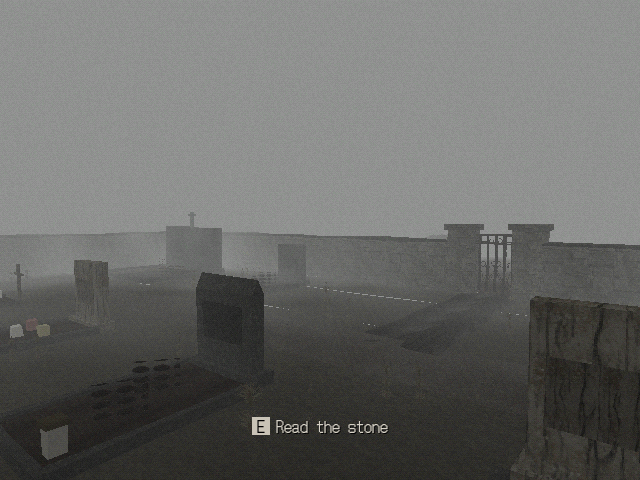
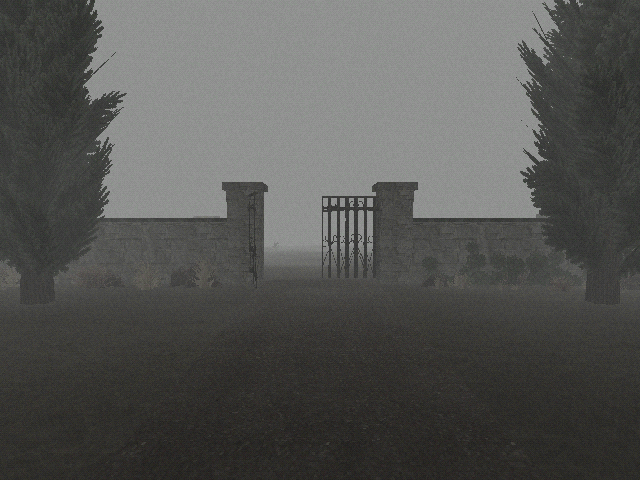
Put ivy on the cemetery wall, yews at its gate and corners, and verges under the hill fences
Spruce within sight of the walls are card models, the rest pictures in the fog.

diff --git a/src/levels/cemetery_path/index.ts b/src/levels/cemetery_path/index.ts
@@ -1,6 +1,7 @@
 import type { Placed } from '../../game/kit/builders';
+import { ivyCover, thicket, VERGE_PLANTS, WILD_PLANTS, yew } from '../../game/kit/foliage';
 import type { LevelKit } from '../../game/kit/levelKit';
-import { scatter } from '../../game/kit/scatter';
+import { scatter, spotsAlong } from '../../game/kit/scatter';
 import { watchmanPatrol } from '../../game/patrol/patrol';
 import { scareDirector } from '../../game/scares/director';
 import { defineScene, type SceneContext } from '../../game/scene';
@@ -69,11 +70,9 @@ export const cemeteryPathScene = defineScene({
       .at(0, 0, 4)
       .walkable('grass');
     gravelPath(kit, path, 1.6, height);
-    barbedWire(
-      kit,
-      path.slice(1, -1).map((p, i) => [p, path[i + 2]!] as Trail).filter((_, i) => i % 2 === 0),
-      1.6,
-    );
+    const fenced = path.slice(1, -1).map((p, i) => [p, path[i + 2]!] as Trail).filter((_, i) => i % 2 === 0);
+    barbedWire(kit, fenced, 1.6);
+    fenceVerges(kit, fenced, 1.9);
 
     meadow(kit);
     church(kit, ctx, night);
@@ -106,8 +105,8 @@ function meadow(kit: LevelKit): void {
   scatter({ x: 0, z: 4, w: 56, d: 100, count: 700, seed: 'hill-tufts', spacing: 0.9, scale: [0.7, 1.4], avoid: offPath }).forEach((spot) =>
     kit.sprite('grass_tuft', { w: 1 * spot.scale!, h: 0.62 * spot.scale! }).color(0x80826a).at(spot.x, -0.04, spot.z).onGround(),
   );
-  kit.trees('bare', scatter({ x: 0, z: 4, w: 60, d: 96, count: 11, seed: 'hill-trees', spacing: 12, avoid: (x, z) => distanceToTrails([path], x, z) < 5 })).collider();
-  kit.trees('spruce', scatter({ x: 0, z: GATE_Z - 6, w: 70, d: 10, count: 26, seed: 'hill-spruce', spacing: 3, scale: [1, 1.4] })).collider();
+  kit.trees('bare', scatter({ x: 0, z: 4, w: 60, d: 96, count: 11, seed: 'hill-trees', spacing: 12, avoid: (x, z) => distanceToTrails([path], x, z) < 5 })).collider().shade(0.12);
+  kit.trees('spruce', scatter({ x: 0, z: GATE_Z - 6, w: 70, d: 10, count: 26, seed: 'hill-spruce', spacing: 3, scale: [1, 1.4] })).collider().shade(0.12);
 }
 
 /** The back of the church at the foot of the path, with the side door the abbé uses. */
@@ -176,8 +175,29 @@ function wayside(kit: LevelKit, ctx: SceneContext, phase: StoryPhase): void {
   });
 }
 
-/** The cemetery wall and gate at the top, seen from below. */
+/**
+ * The strip under the barbed wire the mower never reaches: dead grass and bramble the length of
+ * each fence, and here and there a wild bush grown up round a post.
+ */
+function fenceVerges(kit: LevelKit, legs: Trail[], offset: number): void {
+  const lines = legs.map((leg) => {
+    const [a, b] = [leg[0]!, leg[leg.length - 1]!];
+    const length = Math.hypot(b[0] - a[0], b[1] - a[1]);
+    const [ox, oz] = [(-(b[1] - a[1]) / length) * offset, ((b[0] - a[0]) / length) * offset];
+    return [[a[0] + ox, a[1] + oz], [b[0] + ox, b[1] + oz]] as [number, number][];
+  });
+  const verge = ['a', 'b', 'c'].map((seed) => thicket(`hill-verge-${seed}`, { length: 2.2, depth: 0.8, count: 9, plants: VERGE_PLANTS }));
+  kit.trees(verge, lines.flatMap((line, i) => spotsAlong(line, { step: 1.7, seed: `hill-verge-${i}`, jitter: 0.3, scale: [0.8, 1.25] })));
+  const bushes = ['a', 'b'].map((seed) => thicket(`hill-bush-${seed}`, { length: 1.8, depth: 1.4, count: 5, plants: WILD_PLANTS }));
+  kit.trees(bushes, lines.flatMap((line, i) => spotsAlong(line, { step: 9, seed: `hill-bush-${i}`, jitter: 0.4 })));
+}
+
+/** The cemetery wall and gate at the top, seen from below, ivy on it and a yew each side of the gate. */
 function cemeteryWall(kit: LevelKit): void {
+  const ivy = ['a', 'b'].map((seed) => ivyCover(`hill-wall-${seed}`, { w: 2.6, h: 0.9 }));
+  kit.trees(ivy, [-17, -12.5, -6, 5.5, 9, 14.5].map((x) => ({ x, z: GATE_Z + 0.26, yaw: 0 })));
+  // The same yews the cemetery shows from its own side of the gate.
+  kit.trees([yew('gate-west', { height: 5.4 }), yew('gate-east', { height: 5 })], [{ x: -3.9, z: GATE_Z + 1.8 }, { x: 3.9, z: GATE_Z + 1.8, yaw: 120 }]).collider();
   [-1, 1].forEach((side) => {
     kit.box({ w: 18, h: 1.1, d: 0.5 }).texture('stone_wall', { tile: 1.6 }).color(0x8c8a82).at(side * 10.6, -0.1, GATE_Z).onGround().collider();
     kit.box({ w: 0.55, h: 1.65, d: 0.6 }).texture('stone_wall', { tile: 1 }).color(0x96938a).at(side * 1.6, -0.1, GATE_Z).onGround().collider();

diff --git a/src/levels/cemetery/greenery.ts b/src/levels/cemetery/greenery.ts
@@ -1,0 +1,64 @@
+import { ivyCover, thicket, VERGE_PLANTS, yew } from '../../game/kit/foliage';
+import type { LevelKit } from '../../game/kit/levelKit';
+import { spotsAlong } from '../../game/kit/scatter';
+import { hashString, seededRandom } from '../../engine/random';
+import { BACK_GATE, BACK_Z, EAST_X, FRONT_GATE, FRONT_Z, OLD_STONES, WALL_HEIGHT, WEST_X } from './layout';
+
+type Line = [number, number][];
+
+/** Half the wall's thickness, and the gap each gate leaves in it. */
+const HALF = 0.25;
+const frontGap = FRONT_GATE.w / 2 + 0.6;
+const backGap = BACK_GATE.w / 2 + 0.6;
+
+/**
+ * Each run of wall as a line along one face, with the yaw that turns an ivy sheet's +Z out from
+ * that face. `side` is 1 for the face inside the grounds, -1 for the one outside.
+ */
+function faces(side: 1 | -1): { line: Line; yaw: number }[] {
+  const front = FRONT_Z - side * HALF;
+  const back = BACK_Z + side * HALF;
+  const west = WEST_X + side * HALF;
+  const east = EAST_X - side * HALF;
+  const out = side === 1 ? 0 : 180;
+  return [
+    { line: [[WEST_X, front], [-frontGap, front]], yaw: 180 + out },
+    { line: [[frontGap, front], [EAST_X, front]], yaw: 180 + out },
+    { line: [[WEST_X, back], [BACK_GATE.x - backGap, back]], yaw: out },
+    { line: [[BACK_GATE.x + backGap, back], [EAST_X, back]], yaw: out },
+    { line: [[west, BACK_Z], [west, FRONT_Z]], yaw: 90 + out },
+    { line: [[east, BACK_Z], [east, FRONT_Z]], yaw: -90 + out },
+  ];
+}
+
+/** The old stones set into the west wall stay readable: nothing grows over them. */
+const overStones = (x: number, z: number) => x < WEST_X + 1 && z > OLD_STONES[0]!.z - 1.2 && z < OLD_STONES[OLD_STONES.length - 1]!.z + 1.2;
+
+/**
+ * Ivy over stretches of the wall, inside and out, dead grass and bramble at its foot outside,
+ * and dark yews: two by the front gate, one in each of the quiet corners at the back.
+ */
+export function greenery(kit: LevelKit): void {
+  const random = seededRandom(hashString('cemetery-ivy'));
+  const sheets = ['a', 'b', 'c'].map((seed) => ivyCover(`cemetery-${seed}`, { w: 2.6, h: WALL_HEIGHT - 0.2 }));
+  const ivySpots = [...faces(1), ...faces(-1)].flatMap(({ line, yaw }, i) =>
+    spotsAlong(line, { step: 2.4, seed: `cemetery-ivy-${i}` })
+      .filter((s) => random() < 0.55 && !overStones(s.x, s.z))
+      .map((s) => ({ ...s, yaw })),
+  );
+  kit.trees(sheets, ivySpots);
+
+  const verge = ['a', 'b'].map((seed) => thicket(`cemetery-verge-${seed}`, { length: 2.2, depth: 0.8, count: 9, plants: VERGE_PLANTS }));
+  const foot = faces(-1).map(({ line, yaw }) => line.map(([x, z]) => [x + Math.sin((yaw * Math.PI) / 180) * 0.5, z + Math.cos((yaw * Math.PI) / 180) * 0.5] as [number, number]));
+  kit.trees(verge, foot.flatMap((line, i) => spotsAlong(line, { step: 1.8, seed: `cemetery-verge-${i}`, jitter: 0.25, scale: [0.8, 1.2] })));
+
+  kit
+    .trees([yew('gate-west', { height: 5.4 }), yew('gate-east', { height: 5 }), yew('corner', { height: 6, radius: 1.25 })], [
+      { x: -frontGap - 2, z: FRONT_Z + 1.8 },
+      { x: frontGap + 2, z: FRONT_Z + 1.8, yaw: 120 },
+      { x: EAST_X - 1.6, z: BACK_Z + 1.5, yaw: 40 },
+      { x: EAST_X - 1.5, z: FRONT_Z - 1.4, yaw: 200 },
+    ])
+    .collider()
+    .shade(0.1);
+}

diff --git a/src/levels/cemetery/grounds.ts b/src/levels/cemetery/grounds.ts
@@ -97,9 +97,12 @@ export function hill(kit: LevelKit, night: boolean): void {
   const nearWalls = (x: number, z: number) => Math.abs(x) < GROUNDS.w / 2 + 2.5 && Math.abs(z) < GROUNDS.d / 2 + 2.5;
   const backStrip = (x: number, z: number) => x > BACK_GATE.x - 7 && x < BACK_GATE.x + 6 && z > BACK_Z - 9;
   const spruce = scatter({ x: 0, z: BACK_Z - 22, w: 104, d: 42, count: 260, seed: 'cemetery-spruce', spacing: 2.2, scale: [0.95, 1.45], avoid: (x, z) => nearWalls(x, z) || backStrip(x, z) });
-  kit.trees('spruce', spruce).collider();
+  // Card spruce within sight of the walls, pictures of spruce past them in the fog.
+  const near = (x: number, z: number) => Math.abs(x) < GROUNDS.w / 2 + 14 && z > BACK_Z - 16;
+  kit.trees('spruce', spruce.filter((s) => near(s.x, s.z))).collider().shade(0.12);
+  billboards(kit, { texture: 'tree_spruce', w: 4.6, h: 9.6, color: 0x6c7468 }, spruce.filter((s) => !near(s.x, s.z)));
   // A few bare trees down the slopes, so the fog has shapes in it.
-  kit.trees('bare', scatter({ x: 0, z: 18, w: 104, d: 60, count: 14, seed: 'cemetery-bare', spacing: 9, avoid: (x, z) => nearWalls(x, z) || Math.abs(x - 2) < 6 })).collider();
+  kit.trees('bare', scatter({ x: 0, z: 18, w: 104, d: 60, count: 14, seed: 'cemetery-bare', spacing: 9, avoid: (x, z) => nearWalls(x, z) || Math.abs(x - 2) < 6 })).collider().shade(0.12);
   undergrowth(kit, { x: 0, z: BACK_Z - 9, w: 60, d: 14 }, { seed: 'cemetery', count: 90, avoid: (x, z) => nearWalls(x, z) || (Math.abs(x - BACK_GATE.x) < 1 && z > BACK_Z - 9) });
   [
     [-13, BACK_Z - 5, 0.55],

diff --git a/src/levels/cemetery/index.ts b/src/levels/cemetery/index.ts
@@ -1,3 +1,4 @@
+import { greenery } from './greenery';
 import type { LevelKit } from '../../game/kit/levelKit';
 import { playSound } from '../../game/scares/sounds';
 import { defineScene, type SceneContext } from '../../game/scene';
@@ -42,6 +43,7 @@ export const cemeteryScene = defineScene({
       hill(still, night);
       floor(still);
       walls(still);
+      greenery(still);
       tapAndBin(still);
       oldStones(still, ctx);
       ossuary(still);
